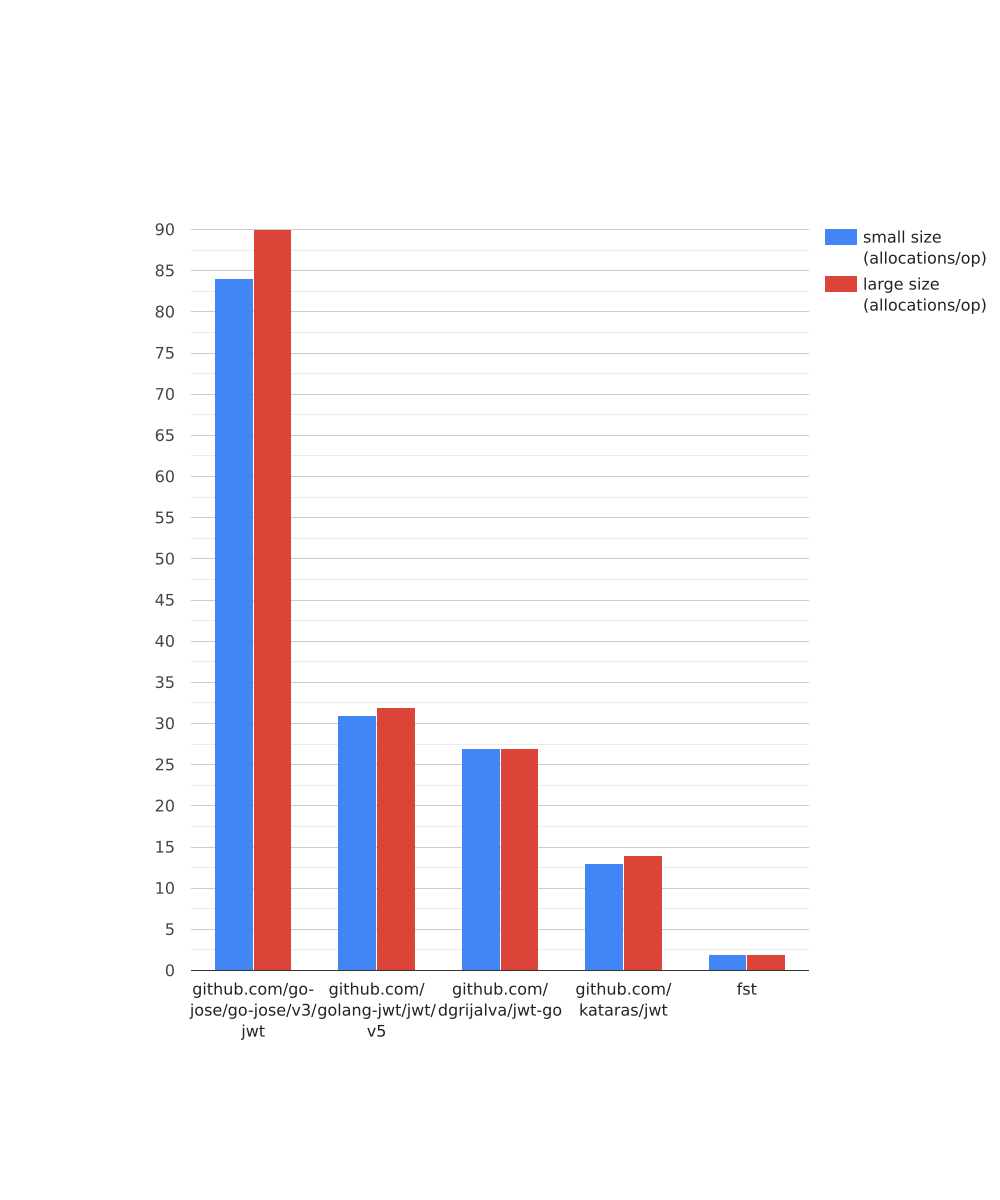
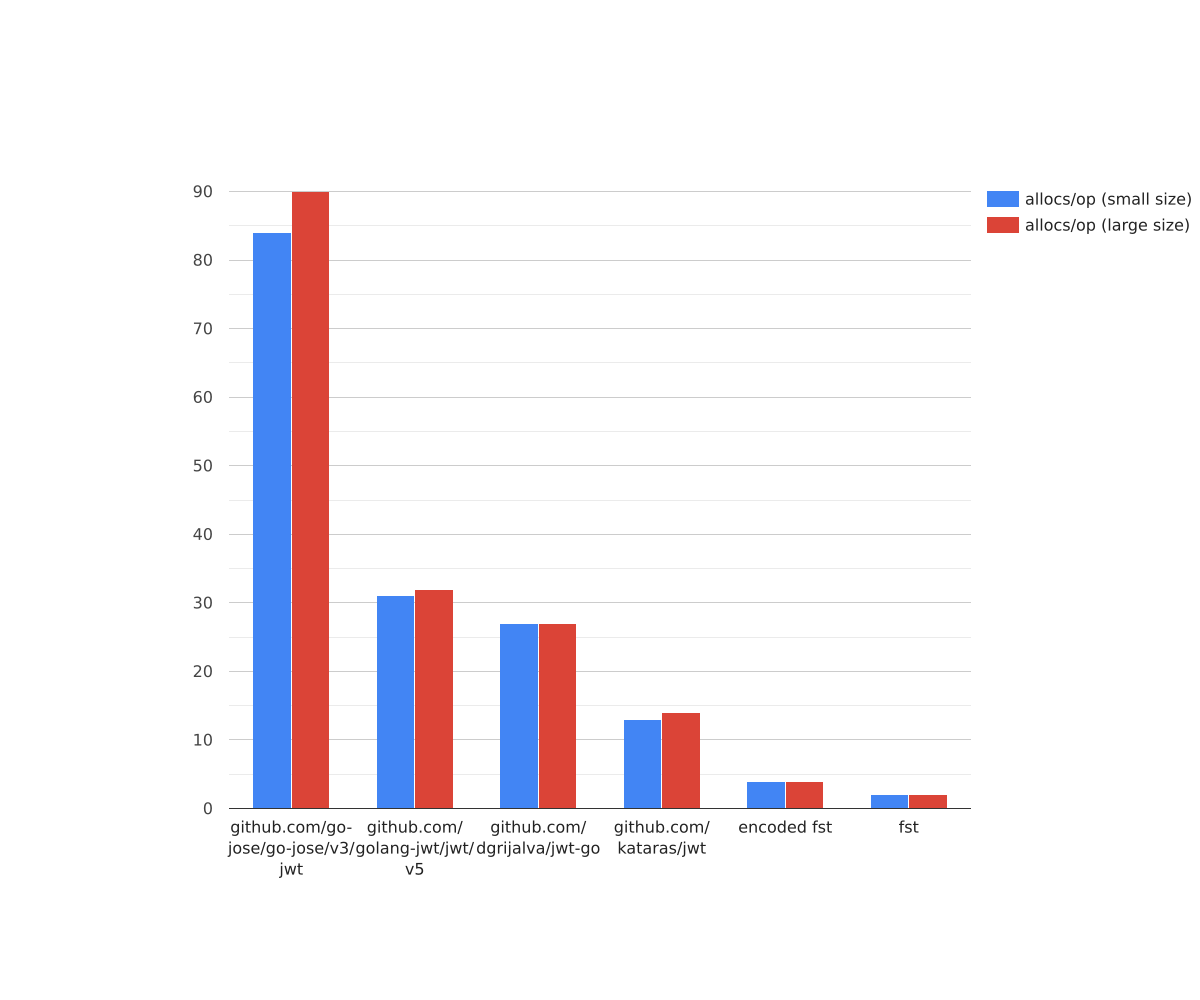
Updated benchmarks

Changed region(s): [[0.155, 0.186, 0.775, 0.868], [0.806, 0.186, 0.992, 0.279]]

diff --git a/benchmarks/benchmark_test.go b/benchmarks/benchmark_test.go
@@ -26,7 +26,15 @@ var (
 	fstConverterA = fst.NewConverter(&fst.ConverterConfig{
 		SecretKey: bkey1,
 	})
+
+	fstEncodedConverterA = fst.NewEncodedConverter(&fst.ConverterConfig{
+		SecretKey: bkey1,
+	})
 	fstConverterR = fst.NewConverter(&fst.ConverterConfig{
+		SecretKey: bkey1,
+	})
+
+	fstEncodedConverterR = fst.NewEncodedConverter(&fst.ConverterConfig{
 		SecretKey: bkey1,
 	})
 
@@ -38,16 +46,18 @@ var (
 		str := b.String()
 		return str
 	}()
-	uintTokenV2, _      = v2.NewAccessToken(id, bkey1)
-	uintTokenV3, _      = v3.NewAccessToken(id)
-	uintTokenV4, _      = v4.NewAccessToken(id, bkey1)
-	uintTokenV5, _      = v5.NewAccessToken(id)
-	uintTokenFST        = fstConverterA.NewToken(U2B(id))
-	bigStringTokenV2, _ = v2.NewRefreshToken(bkey1, message1)
-	bigStringTokenV3, _ = v3.NewRefreshToken(message1)
-	bigStringTokenV4, _ = v4.NewRefreshToken(message1, bkey1)
-	bigStringTokenV5, _ = v5.NewRefreshToken(message1)
-	bigStringTokenFST   = fstConverterR.NewToken([]byte(message1))
+	uintTokenV2, _           = v2.NewAccessToken(id, bkey1)
+	uintTokenV3, _           = v3.NewAccessToken(id)
+	uintTokenV4, _           = v4.NewAccessToken(id, bkey1)
+	uintTokenV5, _           = v5.NewAccessToken(id)
+	uintTokenFST             = fstConverterA.NewToken(U2B(id))
+	uintTokenEncodedFST      = fstEncodedConverterA.NewToken(U2B(id))
+	bigStringTokenV2, _      = v2.NewRefreshToken(bkey1, message1)
+	bigStringTokenV3, _      = v3.NewRefreshToken(message1)
+	bigStringTokenV4, _      = v4.NewRefreshToken(message1, bkey1)
+	bigStringTokenV5, _      = v5.NewRefreshToken(message1)
+	bigStringTokenFST        = fstConverterR.NewToken([]byte(message1))
+	bigStringTokenEncodedFST = fstEncodedConverterR.NewToken([]byte(message1))
 )
 
 func BenchmarkUintGen_GoJose(b *testing.B) {
@@ -78,6 +88,20 @@ func BenchmarkUintGen_JWT(b *testing.B) {
 	for i := 0; i < b.N; i++ {
 		token, err := v3.NewAccessToken(id)
 		if err != nil && len(token) < 1 {
+		}
+	}
+}
+
+func BenchmarkUintGen_EncodedFST(b *testing.B) {
+	converter := fst.NewEncodedConverter(&fst.ConverterConfig{
+		SecretKey: bkey1,
+	})
+	bid := U2B(id)
+	b.ResetTimer()
+
+	for i := 0; i < b.N; i++ {
+		token := converter.NewToken(bid)
+		if len(token) < 1 {
 		}
 	}
 }
@@ -128,6 +152,20 @@ func BenchmarkBigStringGen_JWT(b *testing.B) {
 	}
 }
 
+func BenchmarkBigStringGen_EncodedFST(b *testing.B) {
+	converter := fst.NewEncodedConverter(&fst.ConverterConfig{
+		SecretKey: bkey1,
+	})
+	bmessage := []byte(message1)
+	b.ResetTimer()
+
+	for i := 0; i < b.N; i++ {
+		token := converter.NewToken(bmessage)
+		if len(token) < 1 {
+		}
+	}
+}
+
 func BenchmarkBigStringGen_FST(b *testing.B) {
 	converter := fst.NewConverter(&fst.ConverterConfig{
 		SecretKey: bkey1,
@@ -174,6 +212,19 @@ func BenchmarkUintParse_JWT(b *testing.B) {
 	}
 }
 
+func BenchmarkUintParse_EncodedFST(b *testing.B) {
+	converter := fst.NewEncodedConverter(&fst.ConverterConfig{
+		SecretKey: bkey1,
+	})
+	b.ResetTimer()
+
+	for i := 0; i < b.N; i++ {
+		token, err := converter.ParseToken(uintTokenEncodedFST)
+		if err != nil && len(token) < 1 {
+		}
+	}
+}
+
 func BenchmarkUintParse_FST(b *testing.B) {
 	converter := fst.NewConverter(&fst.ConverterConfig{
 		SecretKey: bkey1,
@@ -215,6 +266,19 @@ func BenchmarkBigStringParse_JWT(b *testing.B) {
 	for i := 0; i < b.N; i++ {
 		pass, err := v3.ParseRefreshToken(bigStringTokenV3)
 		if err != nil && len(pass) < 1 {
+		}
+	}
+}
+
+func BenchmarkBigStringParse_EncodedFST(b *testing.B) {
+	converter := fst.NewEncodedConverter(&fst.ConverterConfig{
+		SecretKey: bkey1,
+	})
+	b.ResetTimer()
+
+	for i := 0; i < b.N; i++ {
+		token, err := converter.ParseToken(bigStringTokenEncodedFST)
+		if err != nil && len(token) < 1 {
 		}
 	}
 }
@@ -271,6 +335,22 @@ func BenchmarkUintGen_JWT_PARALLEL(b *testing.B) {
 		for pb.Next() {
 			token, err := v3.NewAccessToken(id)
 			if err != nil && len(token) < 1 {
+			}
+		}
+	})
+}
+
+func BenchmarkUintGen_EncodedFST_PARALLEL(b *testing.B) {
+	converter := fst.NewEncodedConverter(&fst.ConverterConfig{
+		SecretKey: bkey1,
+	})
+	bid := U2B(id)
+	b.ResetTimer()
+	b.SetParallelism(128)
+	b.RunParallel(func(pb *testing.PB) {
+		for pb.Next() {
+			token := converter.NewToken(bid)
+			if len(token) < 1 {
 			}
 		}
 	})
@@ -336,6 +416,22 @@ func BenchmarkBigStringGen_JWT_PARALLEL(b *testing.B) {
 	})
 }
 
+func BenchmarkBigStringGen_FST_EncodedPARALLEL(b *testing.B) {
+	converter := fst.NewEncodedConverter(&fst.ConverterConfig{
+		SecretKey: bkey1,
+	})
+	bmessage := []byte(message1)
+	b.ResetTimer()
+	b.SetParallelism(128)
+	b.RunParallel(func(pb *testing.PB) {
+		for pb.Next() {
+			token := converter.NewToken(bmessage)
+			if len(token) < 1 {
+			}
+		}
+	})
+}
+
 func BenchmarkBigStringGen_FST_PARALLEL(b *testing.B) {
 	converter := fst.NewConverter(&fst.ConverterConfig{
 		SecretKey: bkey1,
@@ -396,6 +492,21 @@ func BenchmarkUintParse_JWT_PARALLEL(b *testing.B) {
 	})
 }
 
+func BenchmarkUintParse_EncodedFST_PARALLEL(b *testing.B) {
+	converter := fst.NewEncodedConverter(&fst.ConverterConfig{
+		SecretKey: bkey1,
+	})
+	b.ResetTimer()
+	b.SetParallelism(128)
+	b.RunParallel(func(pb *testing.PB) {
+		for pb.Next() {
+			token, err := converter.ParseToken(uintTokenEncodedFST)
+			if err != nil && len(token) < 1 {
+			}
+		}
+	})
+}
+
 func BenchmarkUintParse_FST_PARALLEL(b *testing.B) {
 	converter := fst.NewConverter(&fst.ConverterConfig{
 		SecretKey: bkey1,
@@ -450,6 +561,21 @@ func BenchmarkBigStringParse_JWT_PARALLEL(b *testing.B) {
 		for pb.Next() {
 			pass, err := v3.ParseRefreshToken(bigStringTokenV3)
 			if err != nil && len(pass) < 1 {
+			}
+		}
+	})
+}
+
+func BenchmarkBigStringParse_EncodedFST_PARALLEL(b *testing.B) {
+	converter := fst.NewEncodedConverter(&fst.ConverterConfig{
+		SecretKey: bkey1,
+	})
+	b.ResetTimer()
+	b.SetParallelism(128)
+	b.RunParallel(func(pb *testing.PB) {
+		for pb.Next() {
+			token, err := converter.ParseToken(bigStringTokenEncodedFST)
+			if err != nil && len(token) < 1 {
 			}
 		}
 	})

diff --git a/benchmarks/README.md b/benchmarks/README.md
@@ -47,45 +47,53 @@ pkg: benches
 
 cpu: Intel(R) Core(TM) i5-9400F CPU @ 2.90GHz
 
-| Benchmark                           | Iterations | Time (ns/op) | Bytes (B/op) | Allocations (allocs/op) |
-|-------------------------------------|------------|--------------|--------------|-------------------------|
-| UintGen_GoJose-6                    | 158667     | 7477         | 6760         | 84                      |
-| UintGen_GolangJWT-6                 | 365820     | 3130         | 1904         | 31                      |
-| UintGen_JWT_GO-6                    | 392596     | 2947         | 1584         | 27                      |
-| UintGen_JWT-6                       | 653710     | 1745         | 800          | 13                      |
-| UintGen_FST-6                       | 2462677    | 487.3        | 80           | 2                       |
-| BigStringGen_GoJose-6               | 42236      | 26358        | 19944        | 90                      |
-| BigStringGen_GolangJWT-6            | 122193     | 9862         | 9889         | 32                      |
-| BigStringGen_JWT_GO-6               | 122626     | 9476         | 9568         | 27                      |
-| BigStringGen_JWT-6                  | 156385     | 7554         | 6028         | 14                      |
-| BigStringGen_FST-6                  | 403830     | 2793         | 1184         | 2                       |
-| UintParse_GoJose-6                  | 177871     | 6636         | 4512         | 66                      |
-| UintParse_GolangJWT-6               | 296571     | 3878         | 2208         | 39                      |
-| UintParse_JWT_GO-6                  | 276013     | 4162         | 2680         | 42                      |
-| UintParse_JWT-6                     | 364107     | 3231         | 2336         | 29                      |
-| UintParse_FST-6                     | 2589146    | 470.7        | 32           | 1                       |
-| BigStringParse_GoJose-6             | 43207      | 27488        | 13664        | 68                      |
-| BigStringParse_GolangJWT-6          | 90196      | 13119        | 6976         | 40                      |
-| BigStringParse_JWT_GO-6             | 83995      | 14201        | 8968         | 42                      |
-| BigStringParse_JWT-6                | 74436      | 16061        | 7256         | 29                      |
-| BigStringParse_FST-6                | 468292     | 2556         | 32           | 1                       |
-| UintGen_GoJose_PARALLEL-6           | 274987     | 4282         | 6761         | 84                      |
-| UintGen_GolangJWT_PARALLEL-6        | 768590     | 1537         | 1906         | 31                      |
-| UintGen_JWT_GO_PARALLEL-6           | 881838     | 1233         | 1585         | 27                      |
-| UintGen_JWT_PARALLEL-6              | 1896991    | 600.3        | 800          | 13                      |
-| UintGen_FST_PARALLEL-6              | 9339318    | 120.0        | 80           | 2                       |
-| BigStringGen_GoJose_PARALLEL-6      | 109754     | 13013        | 19949        | 90                      |
-| BigStringGen_GolangJWT_PARALLEL-6   | 237013     | 5208         | 9908         | 32                      |
-| BigStringGen_JWT_GO_PARALLEL-6      | 244294     | 4668         | 9578         | 27                      |
-| BigStringGen_JWT_PARALLEL-6         | 364998     | 3128         | 6035         | 14                      |
-| BigStringGen_FST_PARALLEL-6         | 1233139    | 934.6        | 1186         | 2                       |
-| UintParse_GoJose_PARALLEL-6         | 380606     | 3147         | 4512         | 66                      |
-| UintParse_GolangJWT_PARALLEL-6      | 647278     | 1712         | 2208         | 39                      |
-| UintParse_JWT_GO_PARALLEL-6         | 591739     | 1908         | 2680         | 42                      |
-| UintParse_JWT_PARALLEL-6            | 792940     | 1467         | 2336         | 29                      |
-| UintParse_FST_PARALLEL-6            | 12403942   | 104.1        | 32           | 1                       |
-| BigStringParse_GoJose_PARALLEL-6    | 110364     | 10881        | 13666        | 68                      |
-| BigStringParse_GolangJWT_PARALLEL-6 | 252014     | 4798         | 6977         | 40                      |
-| BigStringParse_JWT_GO_PARALLEL-6    | 203853     | 5771         | 8970         | 42                      |
-| BigStringParse_JWT_PARALLEL-6       | 232568     | 5005         | 7256         | 29                      |
-| BigStringParse_FST_PARALLEL-6       | 2613806    | 465.9        | 32           | 1                       |
+| Benchmark                            | Iterations | Time (ns/op) | Bytes (B/op) | Allocations (allocs/op) |
+|--------------------------------------|------------|--------------|--------------|-------------------------|
+| UintGen_GoJose-6                     | 158667     | 7477         | 6760         | 84                      |
+| UintGen_GolangJWT-6                  | 365820     | 3130         | 1904         | 31                      |
+| UintGen_JWT_GO-6                     | 392596     | 2947         | 1584         | 27                      |
+| UintGen_JWT-6                        | 653710     | 1745         | 800          | 13                      |
+| UintGen_EncodedFST-6                 | 2024858    | 586.5        | 176          | 4                       |
+| UintGen_FST-6                        | 2462677    | 487.3        | 80           | 2                       |
+| BigStringGen_GoJose-6                | 42236      | 26358        | 19944        | 90                      |
+| BigStringGen_GolangJWT-6             | 122193     | 9862         | 9889         | 32                      |
+| BigStringGen_JWT_GO-6                | 122626     | 9476         | 9568         | 27                      |
+| BigStringGen_JWT-6                   | 156385     | 7554         | 6028         | 14                      |
+| BigStringGen_EncodedFST-6            | 281076     | 4227         | 4001         | 4                       |
+| BigStringGen_FST-6                   | 403830     | 2793         | 1184         | 2                       |
+| UintParse_GoJose-6                   | 177871     | 6636         | 4512         | 66                      |
+| UintParse_GolangJWT-6                | 296571     | 3878         | 2208         | 39                      |
+| UintParse_JWT_GO-6                   | 276013     | 4162         | 2680         | 42                      |
+| UintParse_JWT-6                      | 364107     | 3231         | 2336         | 29                      |
+| UintParse_EncodedFST-6               | 2116108    | 563.2        | 80           | 2                       |
+| UintParse_FST-6                      | 2589146    | 465.7        | 32           | 1                       |
+| BigStringParse_GoJose-6              | 43207      | 27488        | 13664        | 68                      |
+| BigStringParse_GolangJWT-6           | 90196      | 13119        | 6976         | 40                      |
+| BigStringParse_JWT_GO-6              | 83995      | 14201        | 8968         | 42                      |
+| BigStringParse_JWT-6                 | 74436      | 16061        | 7256         | 29                      |
+| BigStringParse_EncodedFST-6          | 292818     | 3970         | 1184         | 2                       |
+| BigStringParse_FST-6                 | 468292     | 2556         | 32           | 1                       |
+| UintGen_GoJose_PARALLEL-6            | 274987     | 4282         | 6761         | 84                      |
+| UintGen_GolangJWT_PARALLEL-6         | 768590     | 1537         | 1906         | 31                      |
+| UintGen_JWT_GO_PARALLEL-6            | 881838     | 1233         | 1585         | 27                      |
+| UintGen_JWT_PARALLEL-6               | 1896991    | 600.3        | 800          | 13                      |
+| UintGen_EncodedFST_PARALLEL-6        | 6421455    | 172.1        | 176          | 4                       |
+| UintGen_FST_PARALLEL-6               | 9339318    | 120.0        | 80           | 2                       |
+| BigStringGen_GoJose_PARALLEL-6       | 109754     | 13013        | 19949        | 90                      |
+| BigStringGen_GolangJWT_PARALLEL-6    | 237013     | 5208         | 9908         | 32                      |
+| BigStringGen_JWT_GO_PARALLEL-6       | 244294     | 4668         | 9578         | 27                      |
+| BigStringGen_JWT_PARALLEL-6          | 364998     | 3128         | 6035         | 14                      |
+| BigStringGen_EncodedFST_PARALLEL-6   | 603237     | 1909         | 4004         | 4                       |
+| BigStringGen_FST_PARALLEL-6          | 1233139    | 934.6        | 1186         | 2                       |
+| UintParse_GoJose_PARALLEL-6          | 380606     | 3147         | 4512         | 66                      |
+| UintParse_GolangJWT_PARALLEL-6       | 647278     | 1712         | 2208         | 39                      |
+| UintParse_JWT_GO_PARALLEL-6          | 591739     | 1908         | 2680         | 42                      |
+| UintParse_JWT_PARALLEL-6             | 792940     | 1467         | 2336         | 29                      |
+| UintParse_EncodedFST_PARALLEL-6      | 8961590    | 137          | 80           | 2                       |
+| UintParse_FST_PARALLEL-6             | 12636765   | 94           | 32           | 1                       |
+| BigStringParse_GoJose_PARALLEL-6     | 110364     | 10881        | 13666        | 68                      |
+| BigStringParse_GolangJWT_PARALLEL-6  | 252014     | 4798         | 6977         | 40                      |
+| BigStringParse_JWT_GO_PARALLEL-6     | 203853     | 5771         | 8970         | 42                      |
+| BigStringParse_JWT_PARALLEL-6        | 232568     | 5005         | 7256         | 29                      |
+| BigStringParse_EncodedFST_PARALLEL-6 | 1117708    | 1069         | 1185         | 2                       |
+| BigStringParse_FST_PARALLEL-6        | 2613806    | 465.9        | 32           | 1                       |
